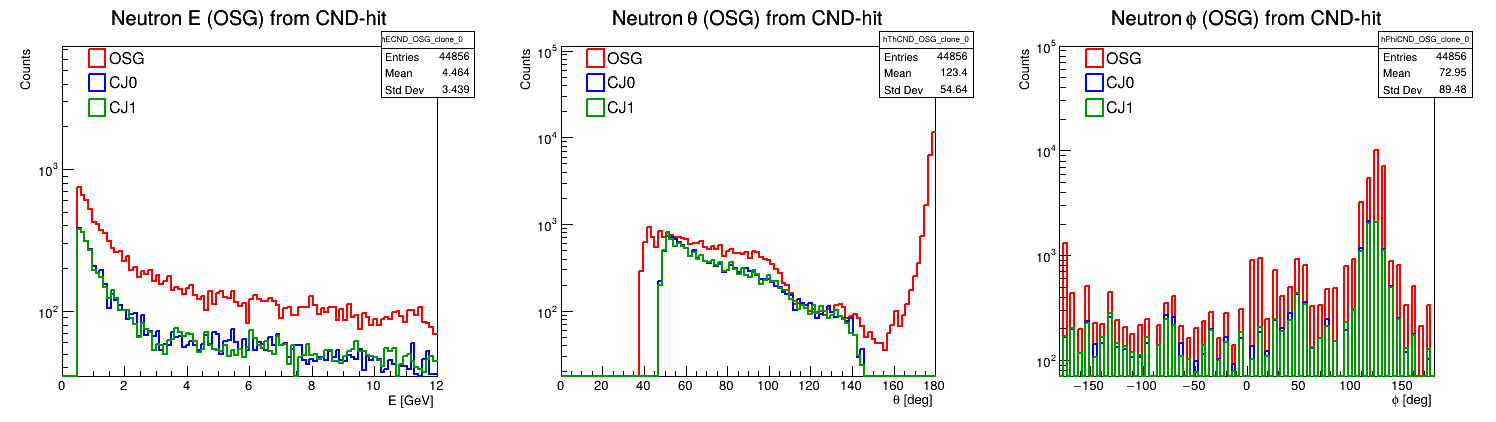
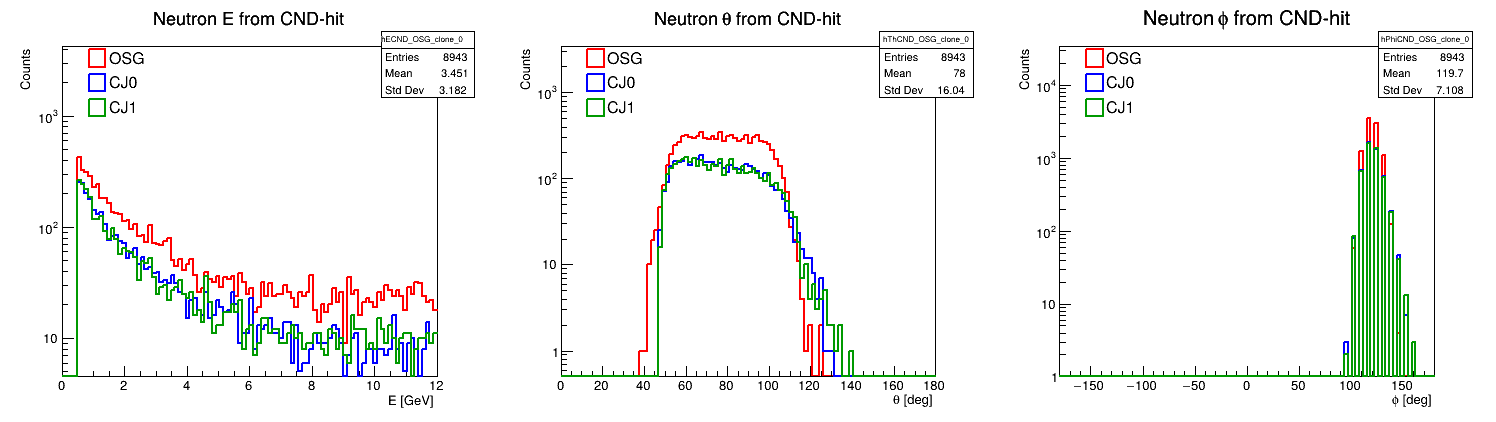
💄 Fix titles for histograms (with low momentum cut)

diff --git a/compare_cnd_versions.C b/compare_cnd_versions.C
@@ -110,7 +110,7 @@ Hists book_hists(const char *tag)
                        100, 0, 10, 100, -180, 180);
     h.hThetaPhi = new TH2F(TString::Format("hThPhi_%s", tag), TString::Format("#phi vs #theta (%s) from REC::Particle;#theta [deg];#phi [deg]", tag),
                            100, 0, 180, 100, -180, 180);
-                           
+
     h.hPMC = new TH1F(TString::Format("hPMC_%s", tag), TString::Format("MC Neutron p (%s);p [GeV];Counts", tag), 100, 0, 5);
     h.hThetaMC = new TH1F(TString::Format("hThMC_%s", tag), TString::Format("MC Neutron #theta (%s);#theta [deg];Counts", tag), 100, 0, 180);
     h.hPhiMC = new TH1F(TString::Format("hPhiMC_%s", tag), TString::Format("MC Neutron #phi (%s);#phi [deg];Counts", tag), 100, -180, 180);
@@ -164,8 +164,8 @@ MatchResult match_neutron_rec_to_mc(const TVector3 &pREC,
         const float pz = MCPT.getFloat("pz", imc);
 
         TVector3 pMC(px, py, pz);
-        // if (pMC.Mag() < 1e-6)
-        //     continue; // skip zero-momentum
+        if (pMC.Mag() < 1e-6)
+            continue; // skip zero-momentum
 
         const float ang = pREC.Angle(pMC) * TMath::RadToDeg();
 
@@ -358,8 +358,11 @@ void process_chain(TChain *chain, Hists &h, const char *tag, int maxEvents = 300
                 TVector3 pREC(px, py, pz);
                 const float pt_rec = std::sqrt(px * px + py * py);
 
-                // if (pt_rec < pt_min)
-                //     continue; // too low momentum
+                if (pt_rec < pt_min)
+                    continue; // too low momentum
+
+                // if (pREC.Mag() < 1e-6)
+                //     continue; // skip zero-momentum
 
                 MatchResult match = match_neutron_rec_to_mc(pREC, MCPT, /*maxAngleDeg=*/10.0);
                 if (match.mcIndex < 0)
@@ -467,7 +470,8 @@ void draw_overlay_1D_N(const std::vector<TH1 *> &h_in,
                        bool logy = true,
                        double leg_x1 = 0.15, double leg_y1 = 0.72,
                        double leg_x2 = 0.35, double leg_y2 = 0.90,
-                       int leg_ncols = 1)
+                       int leg_ncols = 1,
+                       const char *plot_title = nullptr)
 {
     if (h_in.empty() || h_in.size() != labels.size())
         return;
@@ -489,6 +493,10 @@ void draw_overlay_1D_N(const std::vector<TH1 *> &h_in,
         c->SetDirectory(nullptr);
         h.push_back(c);
     }
+
+    // --- Override title ONLY for the plot (PNG), originals remain unchanged
+    if (plot_title && plot_title[0] != '\0')
+        h[0]->SetTitle(plot_title);
 
     // Normalize
     if (normalize)
@@ -535,7 +543,7 @@ void draw_overlay_1D_N(const std::vector<TH1 *> &h_in,
     leg->SetFillStyle(0);
 
     for (size_t i = 0; i < h.size(); ++i)
-        leg->AddEntry(h[i], labels[i], "f"); 
+        leg->AddEntry(h[i], labels[i], "f");
 
     leg->Draw();
 }
@@ -632,12 +640,12 @@ void compare_cnd_versions(int maxEvents = 300000)
         c->Divide(3, 1);
 
         c->cd(1);
-        draw_overlay_1D_N({hOSG.hP, hCJ0.hP, hCJ1.hP, hOSG.hPMC, hCJ0.hPMC, hCJ1.hPMC}, {"OSG REC::Particle", "CJ0 REC::Particle", "CJ1 REC::Particle", "OSG MC::Particle", "CJ0 MC::Particle", "CJ1 MC::Particle"}, /*normalize =*/false, /*logy =*/true, /*legend box*/ 0.12,0.75,0.83,0.90, /*ncols=*/2);
+        draw_overlay_1D_N({hOSG.hP, hCJ0.hP, hCJ1.hP, hOSG.hPMC, hCJ0.hPMC, hCJ1.hPMC}, {"OSG REC::Particle", "CJ0 REC::Particle", "CJ1 REC::Particle", "OSG MC::Particle", "CJ0 MC::Particle", "CJ1 MC::Particle"}, /*normalize =*/false, /*logy =*/true, /*legend box*/ 0.12, 0.75, 0.83, 0.90, /*ncols=*/2, "Neutron p from REC::Particle and MC::Particle;p [GeV];Counts");
         c->cd(2);
-        draw_overlay_1D_N({hOSG.hTheta, hCJ0.hTheta, hCJ1.hTheta, hOSG.hThetaMC, hCJ0.hThetaMC, hCJ1.hThetaMC}, {"OSG REC::Particle", "CJ0 REC::Particle", "CJ1 REC::Particle", "OSG MC::Particle", "CJ0 MC::Particle", "CJ1 MC::Particle"}, /*normalize =*/false, /*logy =*/true, /*legend box*/ 0.12,0.75,0.83,0.90, /*ncols=*/2);
+        draw_overlay_1D_N({hOSG.hTheta, hCJ0.hTheta, hCJ1.hTheta, hOSG.hThetaMC, hCJ0.hThetaMC, hCJ1.hThetaMC}, {"OSG REC::Particle", "CJ0 REC::Particle", "CJ1 REC::Particle", "OSG MC::Particle", "CJ0 MC::Particle", "CJ1 MC::Particle"}, /*normalize =*/false, /*logy =*/true, /*legend box*/ 0.12, 0.75, 0.83, 0.90, /*ncols=*/2, "Neutron #theta from REC::Particle and MC::Particle;#theta [deg];Counts");
         c->cd(3);
-        draw_overlay_1D_N({hOSG.hPhi, hCJ0.hPhi, hCJ1.hPhi, hOSG.hPhiMC, hCJ0.hPhiMC, hCJ1.hPhiMC}, {"OSG REC::Particle", "CJ0 REC::Particle", "CJ1 REC::Particle", "OSG MC::Particle", "CJ0 MC::Particle", "CJ1 MC::Particle"}, /*normalize =*/false, /*logy =*/true, /*legend box*/ 0.12,0.75,0.83,0.90, /*ncols=*/2);
-        c->SaveAs("Histograms/cmp_RECParticle_neutrons_1D.png");
+        draw_overlay_1D_N({hOSG.hPhi, hCJ0.hPhi, hCJ1.hPhi, hOSG.hPhiMC, hCJ0.hPhiMC, hCJ1.hPhiMC}, {"OSG REC::Particle", "CJ0 REC::Particle", "CJ1 REC::Particle", "OSG MC::Particle", "CJ0 MC::Particle", "CJ1 MC::Particle"}, /*normalize =*/false, /*logy =*/true, /*legend box*/ 0.12, 0.75, 0.83, 0.90, /*ncols=*/2, "Neutron #phi from REC::Particle and MC::Particle;#phi [deg];Counts");
+        c->SaveAs("Histograms/cmp_RECParticle_MCPartcile_neutrons_1D.png");
     }
 
     // ------------------------------------------------------------
@@ -648,11 +656,11 @@ void compare_cnd_versions(int maxEvents = 300000)
         c->Divide(3, 1);
 
         c->cd(1);
-        draw_overlay_1D_N({hOSG.hEnergy_CND, hCJ0.hEnergy_CND, hCJ1.hEnergy_CND}, {"OSG", "CJ0", "CJ1"}, /*normalize =*/false, /*logy =*/true, /*legend box*/ 0.15,0.72,0.35,0.90, /*ncols=*/1);
+        draw_overlay_1D_N({hOSG.hEnergy_CND, hCJ0.hEnergy_CND, hCJ1.hEnergy_CND}, {"OSG", "CJ0", "CJ1"}, /*normalize =*/false, /*logy =*/true, /*legend box*/ 0.15, 0.72, 0.35, 0.90, /*ncols=*/1, "Neutron E from CND-hit;E [GeV];Counts");
         c->cd(2);
-        draw_overlay_1D_N({hOSG.hTheta_CND, hCJ0.hTheta_CND, hCJ1.hTheta_CND}, {"OSG", "CJ0", "CJ1"}, /*normalize =*/false, /*logy =*/true, /*legend box*/ 0.15,0.72,0.35,0.90, /*ncols=*/1);
+        draw_overlay_1D_N({hOSG.hTheta_CND, hCJ0.hTheta_CND, hCJ1.hTheta_CND}, {"OSG", "CJ0", "CJ1"}, /*normalize =*/false, /*logy =*/true, /*legend box*/ 0.15, 0.72, 0.35, 0.90, /*ncols=*/1, "Neutron #theta from CND-hit;#theta [deg];Counts");
         c->cd(3);
-        draw_overlay_1D_N({hOSG.hPhi_CND, hCJ0.hPhi_CND, hCJ1.hPhi_CND}, {"OSG", "CJ0", "CJ1"}, /*normalize =*/false, /*logy =*/true, /*legend box*/ 0.15,0.72,0.35,0.90, /*ncols=*/1);
+        draw_overlay_1D_N({hOSG.hPhi_CND, hCJ0.hPhi_CND, hCJ1.hPhi_CND}, {"OSG", "CJ0", "CJ1"}, /*normalize =*/false, /*logy =*/true, /*legend box*/ 0.15, 0.72, 0.35, 0.90, /*ncols=*/1, "Neutron #phi from CND-hit;#phi [deg];Counts");
         c->SaveAs("Histograms/cmp_CND_scint_1D.png");
     }
 
@@ -664,9 +672,9 @@ void compare_cnd_versions(int maxEvents = 300000)
         c->Divide(2, 1);
 
         c->cd(1);
-        draw_overlay_1D_N({hOSG.hDTheta_CND, hCJ0.hDTheta_CND, hCJ1.hDTheta_CND}, {"OSG", "CJ0", "CJ1"}, /*normalize =*/false, /*logy =*/true, /*legend box*/ 0.15,0.72,0.35,0.90, /*ncols=*/1);
+        draw_overlay_1D_N({hOSG.hDTheta_CND, hCJ0.hDTheta_CND, hCJ1.hDTheta_CND}, {"OSG", "CJ0", "CJ1"}, /*normalize =*/false, /*logy =*/true, /*legend box*/ 0.15, 0.72, 0.35, 0.90, /*ncols=*/1);
         c->cd(2);
-        draw_overlay_1D_N({hOSG.hDPhi_CND, hCJ0.hDPhi_CND, hCJ1.hDPhi_CND}, {"OSG", "CJ0", "CJ1"}, /*normalize =*/false, /*logy =*/true, /*legend box*/ 0.15,0.72,0.35,0.90, /*ncols=*/1);
+        draw_overlay_1D_N({hOSG.hDPhi_CND, hCJ0.hDPhi_CND, hCJ1.hDPhi_CND}, {"OSG", "CJ0", "CJ1"}, /*normalize =*/false, /*logy =*/true, /*legend box*/ 0.15, 0.72, 0.35, 0.90, /*ncols=*/1);
 
         c->SaveAs("Histograms/cmp_CND_residuals_1D.png");
     }
@@ -679,11 +687,11 @@ void compare_cnd_versions(int maxEvents = 300000)
         c->Divide(3, 1);
 
         c->cd(1);
-        draw_overlay_1D_N({hOSG.hDP_REC_MC, hCJ0.hDP_REC_MC, hCJ1.hDP_REC_MC}, {"OSG", "CJ0", "CJ1"}, /*normalize =*/false, /*logy =*/true, /*legend box*/ 0.15,0.72,0.35,0.90, /*ncols=*/1);
+        draw_overlay_1D_N({hOSG.hDP_REC_MC, hCJ0.hDP_REC_MC, hCJ1.hDP_REC_MC}, {"OSG", "CJ0", "CJ1"}, /*normalize =*/false, /*logy =*/true, /*legend box*/ 0.15, 0.72, 0.35, 0.90, /*ncols=*/1);
         c->cd(2);
-        draw_overlay_1D_N({hOSG.hDTheta_REC_MC, hCJ0.hDTheta_REC_MC, hCJ1.hDTheta_REC_MC}, {"OSG", "CJ0", "CJ1"}, /*normalize =*/false, /*logy =*/true, /*legend box*/ 0.15,0.72,0.35,0.90, /*ncols=*/1);
+        draw_overlay_1D_N({hOSG.hDTheta_REC_MC, hCJ0.hDTheta_REC_MC, hCJ1.hDTheta_REC_MC}, {"OSG", "CJ0", "CJ1"}, /*normalize =*/false, /*logy =*/true, /*legend box*/ 0.15, 0.72, 0.35, 0.90, /*ncols=*/1);
         c->cd(3);
-        draw_overlay_1D_N({hOSG.hDPhi_REC_MC, hCJ0.hDPhi_REC_MC, hCJ1.hDPhi_REC_MC}, {"OSG", "CJ0", "CJ1"}, /*normalize =*/false, /*logy =*/true, /*legend box*/ 0.15,0.72,0.35,0.90, /*ncols=*/1);
+        draw_overlay_1D_N({hOSG.hDPhi_REC_MC, hCJ0.hDPhi_REC_MC, hCJ1.hDPhi_REC_MC}, {"OSG", "CJ0", "CJ1"}, /*normalize =*/false, /*logy =*/true, /*legend box*/ 0.15, 0.72, 0.35, 0.90, /*ncols=*/1);
         c->SaveAs("Histograms/cmp_residuals_MC_1D.png");
     }
 
